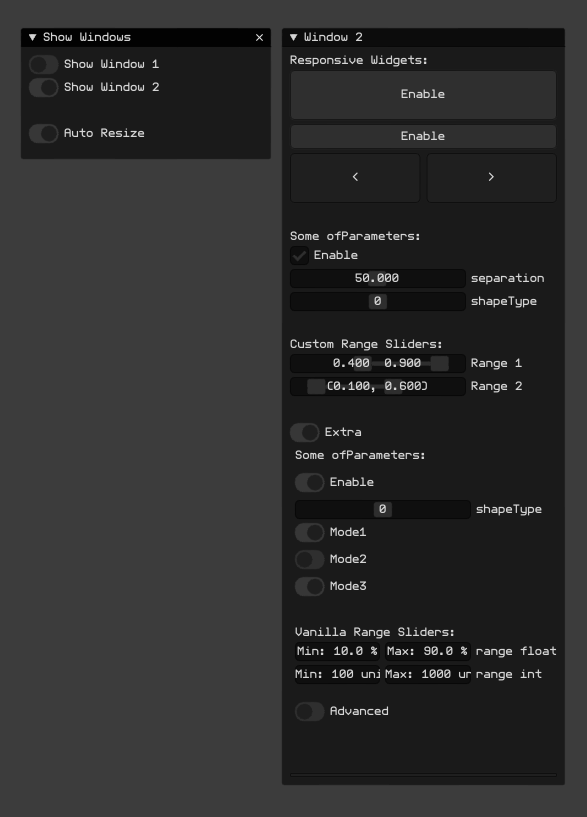
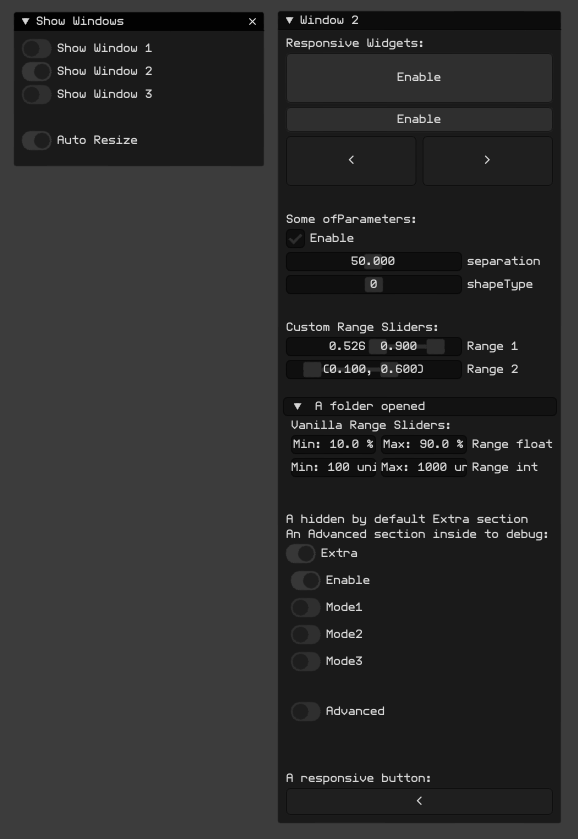
+

Changed region(s): [[0.0, 0.0, 0.9965, 0.9792], [0.8097, 0.306, 0.9343, 0.4896], [0.8097, 0.7956, 0.872, 0.8568]]

diff --git a/examples/2_1_Layout_Basic/src/ofApp.cpp b/examples/2_1_Layout_Basic/src/ofApp.cpp
@@ -55,7 +55,7 @@ void ofApp::draw()
 
 		//---------
 
-		// Window 0
+		// Main Window
 
 		// A raw standard raw ImGui window
 		{
@@ -174,18 +174,20 @@ void ofApp::draw()
 				ofxImGuiSurfing::AddParameter(shapeType);
 
 				//-
-
-				// spacing
+				
 				ImGui::Dummy(ImVec2(0.0f, 20.0f)); // spacing
 
 				//-
 
 				// more widgets inside this window
+
 				drawWidgets();
 
 				//-
 
-				// A button filling the below panel area
+				// A responsive button. filling the below panel area
+
+				ImGui::Text("A responsive button:");
 				float __w100 = ImGui::GetContentRegionAvail().x;
 				float __h100 = ImGui::GetContentRegionAvail().y;
 				ofxImGuiSurfing::AddBigButton(bPrevious, __w100, __h100);
@@ -204,7 +206,6 @@ void ofApp::draw()
 
 	guiManager.end(); // global end
 }
-
 
 //--------------------------------------------------------------
 void ofApp::drawWidgets() {
@@ -229,8 +230,27 @@ void ofApp::drawWidgets() {
 	static float v2max = 0.6;
 	ofxImGuiSurfing::RangeSliderFloat("Range 2", &v2min, &v2max, v_min, v_max);
 
-	// spacing
 	ImGui::Dummy(ImVec2(0.0f, 10.0f)); // spacing
+
+	//--
+
+	bool bOpen = true;
+	ImGuiTreeNodeFlags _flagt = (bOpen ? ImGuiTreeNodeFlags_DefaultOpen : ImGuiTreeNodeFlags_None);
+	_flagt |= ImGuiTreeNodeFlags_Framed;
+
+	if (ImGui::TreeNodeEx("A folder opened", _flagt))
+	{
+		ImGui::Text("Vanilla Range Sliders:");
+
+		static float begin = 10, end = 90;
+		static int begin_i = 100, end_i = 1000;
+		ofxImGuiSurfing::DragFloatRange2("Range float", &begin, &end, 0.25f, 0.0f, 100.0f, "Min: %.1f %%", "Max: %.1f %%");
+		ofxImGuiSurfing::DragIntRange2("Range int", &begin_i, &end_i, 5, 0, 0, "Min: %.0f units", "Max: %.0f units");
+
+		ImGui::TreePop();
+	}
+
+	ImGui::Dummy(ImVec2(0.0f, 20.0f)); // spacing
 
 	//-
 
@@ -238,6 +258,10 @@ void ofApp::drawWidgets() {
 	{
 		ImGui::Dummy(ImVec2(0, 5)); // spacing
 		{
+
+			ImGui::Text("A hidden by default Extra section");
+			ImGui::Text("An Advanced section inside to debug:");
+
 			ofxImGuiSurfing::AddToggleRoundedButton(guiManager.bExtra);
 			if (guiManager.bExtra)
 			{
@@ -245,23 +269,11 @@ void ofApp::drawWidgets() {
 				{
 					//--
 
-					ImGui::Text("Some ofParameters:");
-
 					ofxImGuiSurfing::AddToggleRoundedButton(bEnable);
-					ofxImGuiSurfing::AddParameter(shapeType);
 					ofxImGuiSurfing::AddToggleRoundedButton(bMode1);
 					ofxImGuiSurfing::AddToggleRoundedButton(bMode2);
 					ofxImGuiSurfing::AddToggleRoundedButton(bMode3);
-					ImGui::Dummy(ImVec2(0.0f, 10.0f));
-
-					//--
-
-					ImGui::Text("Vanilla Range Sliders:");
-
-					static float begin = 10, end = 90;
-					static int begin_i = 100, end_i = 1000;
-					ofxImGuiSurfing::DragFloatRange2("Range float", &begin, &end, 0.25f, 0.0f, 100.0f, "Min: %.1f %%", "Max: %.1f %%");
-					ofxImGuiSurfing::DragIntRange2("Range int", &begin_i, &end_i, 5, 0, 0, "Min: %.0f units", "Max: %.0f units");
+					//ofxImGuiSurfing::AddParameter(shapeType);
 					ImGui::Dummy(ImVec2(0.0f, 10.0f));
 
 					//--

diff --git a/examples/2_1_Layout_Basic/src/ofApp.h b/examples/2_1_Layout_Basic/src/ofApp.h
@@ -4,13 +4,13 @@
 
 #include "ofxSurfingImGui.h"	// -> Add all classes. You can also simplify picking what you want to use.
 // Now you can use the included ofxSurfing_ImGui_Helpers.h to improve the handling of ofParameters.
+// NOTE: Inside the header file, there's some snippets and tutorials than you can use to learn or to use by yourself.
 
 //-
 
 class ofApp : public ofBaseApp{
 
 public:
-
 		void setup();
 		void draw();
 			

diff --git a/examples/2_1_Layout_Basic/src/main.cpp b/examples/2_1_Layout_Basic/src/main.cpp
@@ -3,7 +3,7 @@
 
 //========================================================================
 int main( ){
-	ofSetupOpenGL(1024,768,OF_WINDOW);			// <-------- setup the GL context
+	ofSetupOpenGL(1600,900,OF_WINDOW);			// <-------- setup the GL context
 
 	// this kicks off the running of my app
 	// can be OF_WINDOW or OF_FULLSCREEN
